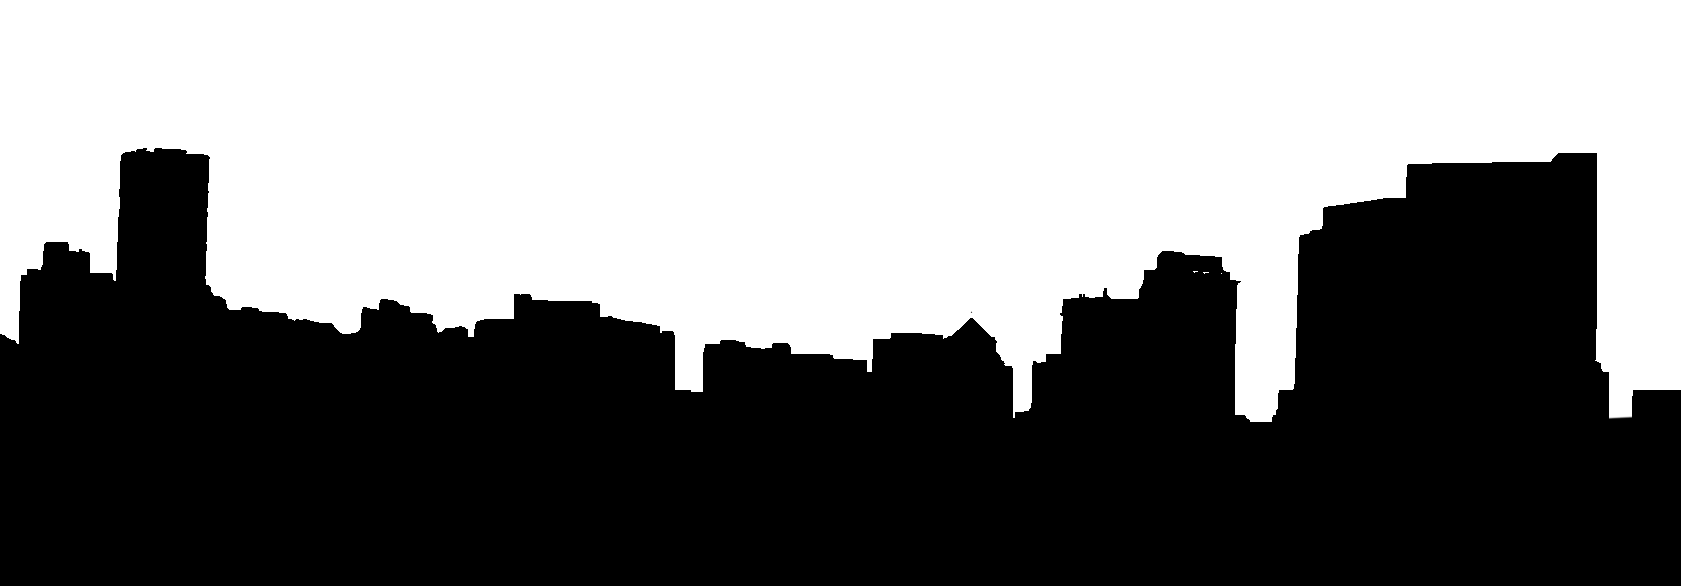
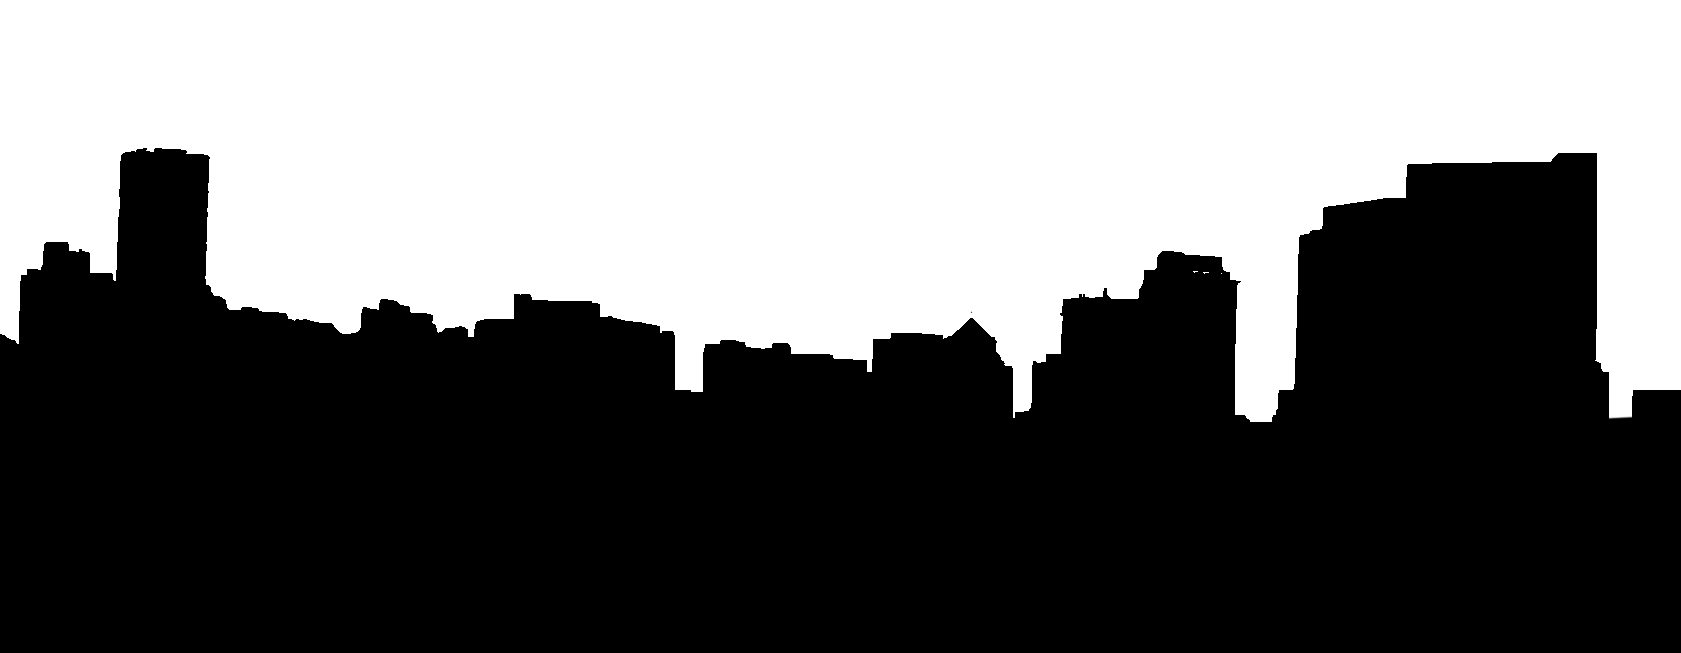
responsive add

diff --git a/css/style.css b/css/style.css
@@ -11,7 +11,7 @@ body{
         rgba(0, 0, 0, 0.25)
         ), url("../images/background.png");*/
 
-    background-color: #EAE0D5;
+    background-color: #FFFCF2;
     background-size: cover;
     background-repeat: no-repeat;
     background-attachment: fixed;
@@ -104,7 +104,7 @@ h2,h3,span{
 
 .presentation{
     text-align: center;
-    padding-top: 2em;
+    padding-top: 4em;
     font-size: 2.2vh;
     letter-spacing: 1.22px;
     padding-left: 5%;
@@ -131,7 +131,7 @@ h2,h3,span{
 .home-down{
     z-index: 2;
     position: absolute;
-    top: 78%; left: 50%; /* à 50%/50% du parent référent */
+    top: 65%; left: 50%; /* à 50%/50% du parent référent */
     transform: translate(-50%, -50%); /* décalage de 50% de sa propre taille */
     text-align: center;
     max-width: 100%;
@@ -494,8 +494,14 @@ h2,h3,span{
 }
 
 .cityshadow {
+    background: url(../images/CityShadow.png);
+    width: 100%;
+    height: 56vh; 
+    POSITION: absolute;
+    top: 50%;
+    /*width: 100%;
     z-index: 0;
     position: absolute;
-    top: 77%; left: 50%; /* à 50%/50% du parent référent */
-    transform: translate(-50%, -50%); /* décalage de 50% de sa propre taille */
+    top: 80%; left: 50%; 
+    transform: translate(-50%, -50%); */
 }

diff --git a/index.html b/index.html
@@ -38,8 +38,9 @@
               </div>
           </div>
       </section>
+      <div class="cityshadow">
+      </div>
       <section class="projet">
-          <img src="images/CityShadow.png" alt="" class="cityshadow">
         <div class="header-projet">
             <h2>Hey !</h2><br>
             <h3>Here is a little selection of projects 
